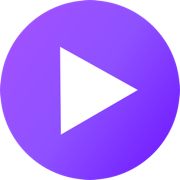
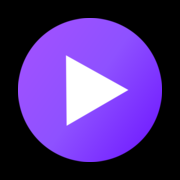
fix: improve mobile shorts playback

diff --git a/apps/web/src/pages/shorts/ShortsVideoPage.tsx b/apps/web/src/pages/shorts/ShortsVideoPage.tsx
@@ -330,6 +330,10 @@ export function ShortsVideoPage() {
     ? getVideoPlayback(currentVideo.contentWarning, config.nsfwFilter)
     : 'play'
   const currentBlocked = isPlaybackBlocked(currentVideo)
+  const playbackVideo = allVideos[settlingTargetIndex ?? currentVideoIndex]
+  const playbackBlocked = isPlaybackBlocked(playbackVideo)
+  const preparingNextVideo =
+    settlingTargetIndex !== null && settlingTargetIndex !== currentVideoIndex
   const isLoadingInitialEvent = !initialVideo && initialVideoEvent === undefined
 
   // Memoize proxyConfig to prevent infinite loops
@@ -341,13 +345,13 @@ export function ShortsVideoPage() {
   )
 
   const { ladder: videoUrlLadder } = useMediaUrls({
-    urls: currentVideo?.urls ?? [],
+    urls: playbackVideo?.urls ?? [],
     mediaType: 'video',
-    sha256: currentVideo?.x,
-    kind: currentVideo?.kind,
-    authorPubkey: currentVideo?.pubkey,
+    sha256: playbackVideo?.x,
+    kind: playbackVideo?.kind,
+    authorPubkey: playbackVideo?.pubkey,
     proxyConfig,
-    enabled: !!currentVideo,
+    enabled: !!playbackVideo && !playbackBlocked,
   })
   const videoUrl = videoUrlLadder.currentUrl
   const hasMoreVideoUrls = videoUrlLadder.hasMore
@@ -457,10 +461,10 @@ export function ShortsVideoPage() {
 
   useEffect(() => {
     const videoElement = singletonVideoRef.current
-    if (!videoElement || !currentVideo) return
+    if (!videoElement || !playbackVideo) return
 
     // Flagged short not (yet) allowed: keep the singleton empty so nothing loads or plays.
-    if (currentBlocked) {
+    if (playbackBlocked) {
       videoElement.pause()
       videoElement.removeAttribute('src')
       videoElement.dataset.videoId = ''
@@ -473,18 +477,19 @@ export function ShortsVideoPage() {
     if (!videoUrl) return
 
     const playCurrentSource = () => {
-      if (userPausedRef.current) return
+      if (userPausedRef.current || preparingNextVideo) return
 
       const playPromise = videoElement.play()
       if (playPromise !== undefined) {
         playPromise.catch(error => {
+          if (videoElement.dataset.videoId !== playbackVideo.id) return
           // Sound not allowed yet: keep playing, muted, instead of not playing at all.
           if (error?.name === 'NotAllowedError' && !videoElement.muted) {
             videoElement.muted = true
             videoElement.play().catch(mutedError => {
               console.error(
                 'Error playing muted short video:',
-                currentVideo.id.substring(0, 8),
+                playbackVideo.id.substring(0, 8),
                 mutedError
               )
             })
@@ -492,7 +497,7 @@ export function ShortsVideoPage() {
           }
           console.error(
             'Error playing singleton short video:',
-            currentVideo.id.substring(0, 8),
+            playbackVideo.id.substring(0, 8),
             error
           )
         })
@@ -503,7 +508,7 @@ export function ShortsVideoPage() {
     // not videoElement.src directly — the assigned src may be a local object
     // URL (from a prefetched Blob) rather than videoUrl itself.
     const sourceChanged =
-      videoElement.dataset.videoId !== currentVideo.id ||
+      videoElement.dataset.videoId !== playbackVideo.id ||
       videoElement.dataset.sourceUrl !== videoUrl
     if (!sourceChanged) {
       playCurrentSource()
@@ -534,11 +539,11 @@ export function ShortsVideoPage() {
       // with no buffering, instead of hoping the browser's HTTP cache can
       // serve the <video> element's range requests. Looked up by content hash
       // first so a Blob prefetched from a different mirror still matches.
-      const prefetchedBlob = getPrefetchedVideoBlob({ sha256: currentVideo.x, url: videoUrl })
+      const prefetchedBlob = getPrefetchedVideoBlob({ sha256: playbackVideo.x, url: videoUrl })
       const previousObjectUrl = objectUrlRef.current
       objectUrlRef.current = null
 
-      videoElement.dataset.videoId = currentVideo.id
+      videoElement.dataset.videoId = playbackVideo.id
       videoElement.dataset.sourceUrl = videoUrl
       if (prefetchedBlob) {
         const objectUrl = URL.createObjectURL(prefetchedBlob)
@@ -561,15 +566,15 @@ export function ShortsVideoPage() {
     return () => {
       window.cancelAnimationFrame(rafId)
     }
-  }, [currentVideo, videoUrl, currentBlocked])
+  }, [playbackVideo, videoUrl, playbackBlocked, preparingNextVideo])
 
   const handleVideoError = useCallback(() => {
     if (hasMoreVideoUrls) {
       moveToNextVideo()
-    } else if (currentVideo) {
-      console.error('All video URLs failed for:', currentVideo.id)
+    } else if (playbackVideo) {
+      console.error('All video URLs failed for:', playbackVideo.id)
     }
-  }, [currentVideo, hasMoreVideoUrls, moveToNextVideo])
+  }, [playbackVideo, hasMoreVideoUrls, moveToNextVideo])
 
   const handleVideoLoadedMetadata = useCallback(() => {
     const videoElement = singletonVideoRef.current
@@ -602,6 +607,13 @@ export function ShortsVideoPage() {
       })
     }
   }, [currentVideo])
+
+  useEffect(() => {
+    const videoElement = singletonVideoRef.current
+    if (!preparingNextVideo && videoElement && videoElement.readyState >= 2) {
+      handleVideoLoadedData()
+    }
+  }, [preparingNextVideo, handleVideoLoadedData])
 
   // Mid-playback rebuffering (e.g. the current video stalls on a slow
   // connection): show the same loading feedback as an initial swap.
@@ -985,7 +997,7 @@ export function ShortsVideoPage() {
               >
                 <video
                   ref={handleVideoRef}
-                  className={`w-full h-full cursor-pointer ${useOverscan ? 'object-cover' : 'object-contain'} ${isVideoReady ? 'opacity-100' : 'opacity-0'}`}
+                  className={`w-full h-full cursor-pointer ${useOverscan ? 'object-cover' : 'object-contain'} ${isVideoReady && !preparingNextVideo ? 'opacity-100' : 'opacity-0'}`}
                   loop
                   playsInline
                   poster={currentBlocked ? undefined : videoPoster}

diff --git a/apps/web/index.html b/apps/web/index.html
@@ -27,7 +27,7 @@
     <meta name="apple-mobile-web-app-status-bar-style" content="black-translucent" />
     <meta name="theme-color" content="#141111" media="(prefers-color-scheme: dark)" />
     <meta name="theme-color" content="#ffffff" media="(prefers-color-scheme: light)" />
-    <link rel="apple-touch-icon" sizes="180x180" href="/apple-touch-icon.png" />
+    <link rel="apple-touch-icon" sizes="180x180" href="/apple-touch-icon.png?v=2" />
     <meta name="apple-mobile-web-app-title" content="nostube" />
     <meta
       http-equiv="content-security-policy"

diff --git a/apps/web/src/index.css b/apps/web/src/index.css
@@ -168,6 +168,26 @@
 .short-actions > * {
   flex-shrink: 0;
 }
+@media (max-width: 767px) {
+  .media-header {
+    border-bottom: 0;
+    box-shadow: none;
+  }
+
+  .media-header :where(button, button:hover) {
+    background-color: transparent;
+    box-shadow: none;
+  }
+
+  .short-actions {
+    filter: none;
+  }
+
+  .short-actions :where(.bg-secondary, button.rounded-full) {
+    background-color: rgb(0 0 0 / 0.3);
+    box-shadow: none;
+  }
+}
 
 .video-shelf-item {
   width: min(18rem, 78vw);

diff --git a/apps/web/src/components/Header.tsx b/apps/web/src/components/Header.tsx
@@ -129,7 +129,8 @@ export function Header({ transparent = false }: HeaderProps) {
             to="/"
             className={cn(
               'text-xl font-bold flex flex-row gap-2 items-center',
-              transparent ? 'text-white' : 'text-foreground'
+              transparent ? 'text-white' : 'text-foreground',
+              transparent && 'max-md:hidden'
             )}
           >
             <img className="w-8" src={appTitle.imageUrl} alt="logo" />

diff --git a/apps/web/CHANGELOG.md b/apps/web/CHANGELOG.md
@@ -5,6 +5,16 @@ All notable changes to this project will be documented in this file.
 The format is based on [Keep a Changelog](https://keepachangelog.com/en/1.0.0/),
 and this project adheres to [Semantic Versioning](https://semver.org/spec/v2.0.0.html).
 
+## [Unreleased]
+
+## [0.2.61] - 2026-11-06
+
+### Changed
+
+- The iOS home-screen icon gives the logo more space on a black background.
+- The mobile shorts viewer uses a cleaner navigation bar and subtler action controls.
+- Shorts prepare their next video during the swipe transition to reduce the wait before playback.
+
 ## [0.2.60] - 2026-11-06
 
 ### Changed
